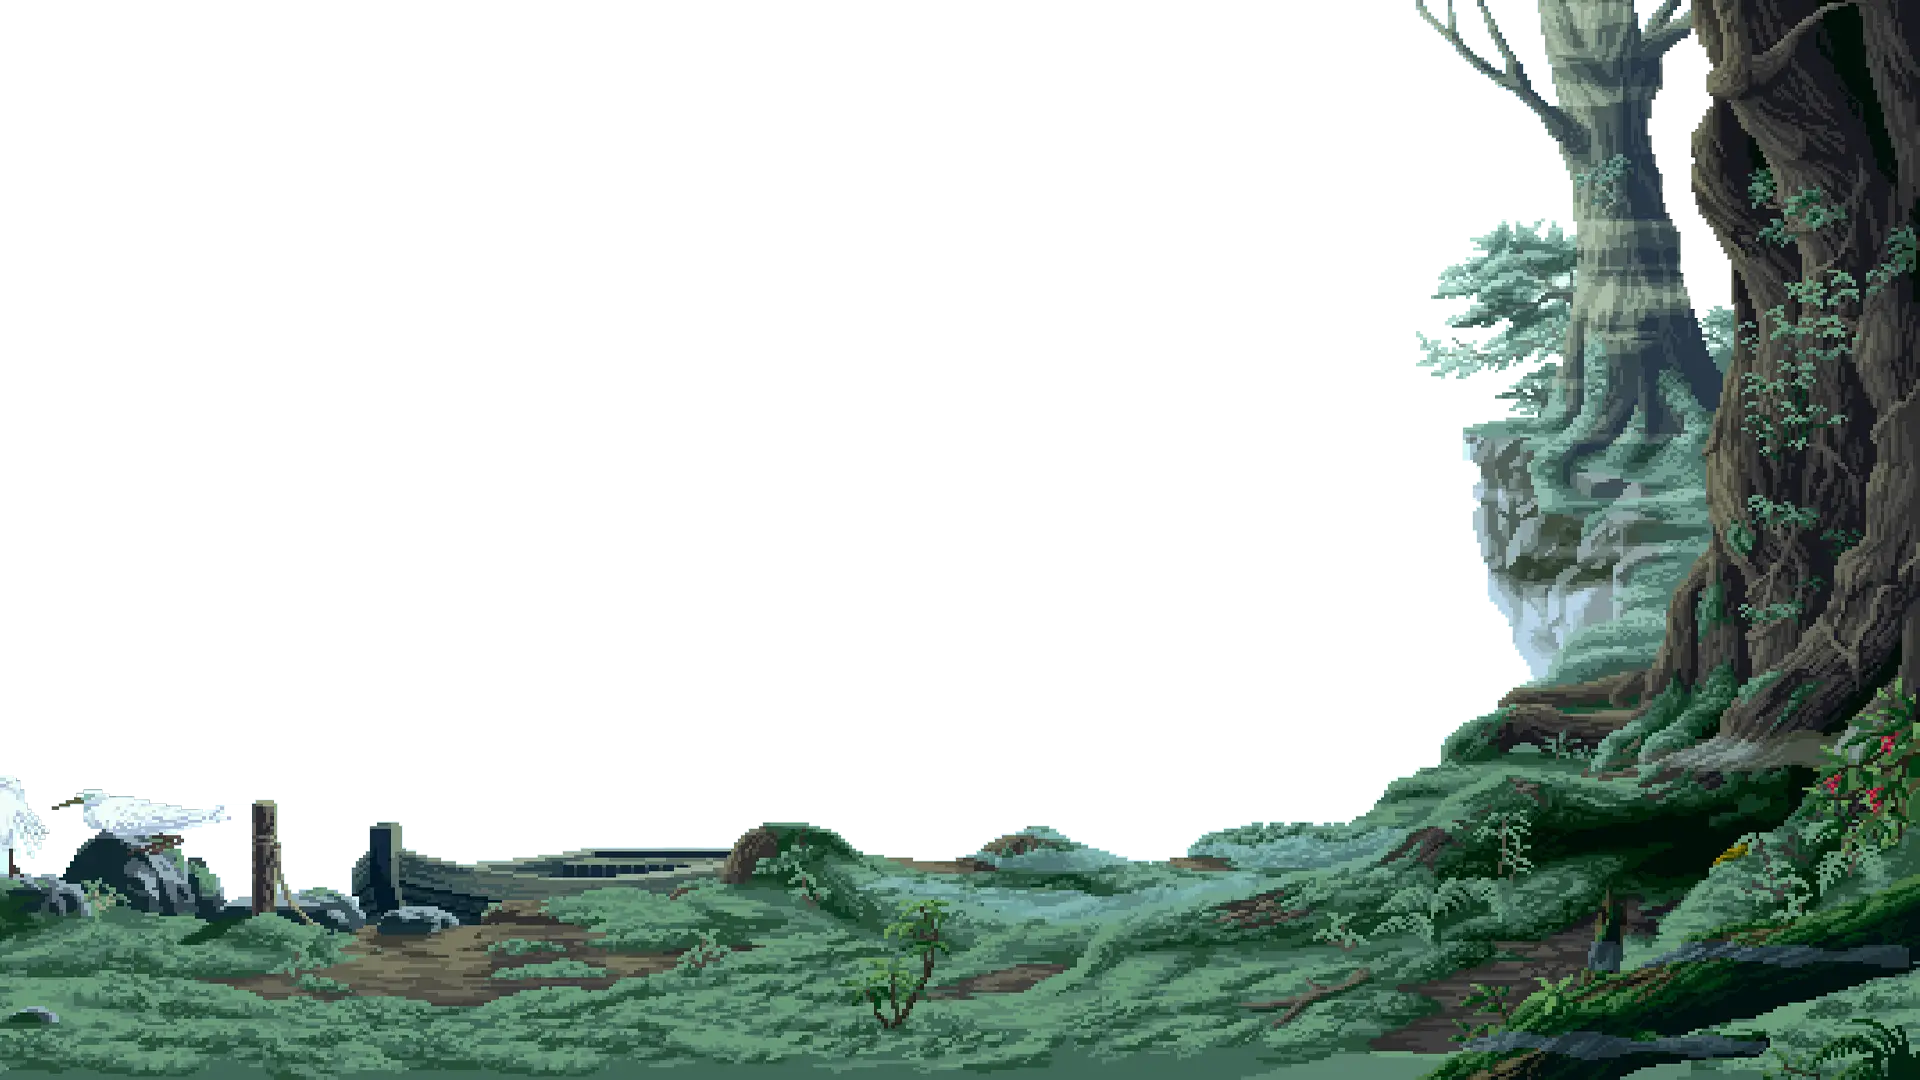
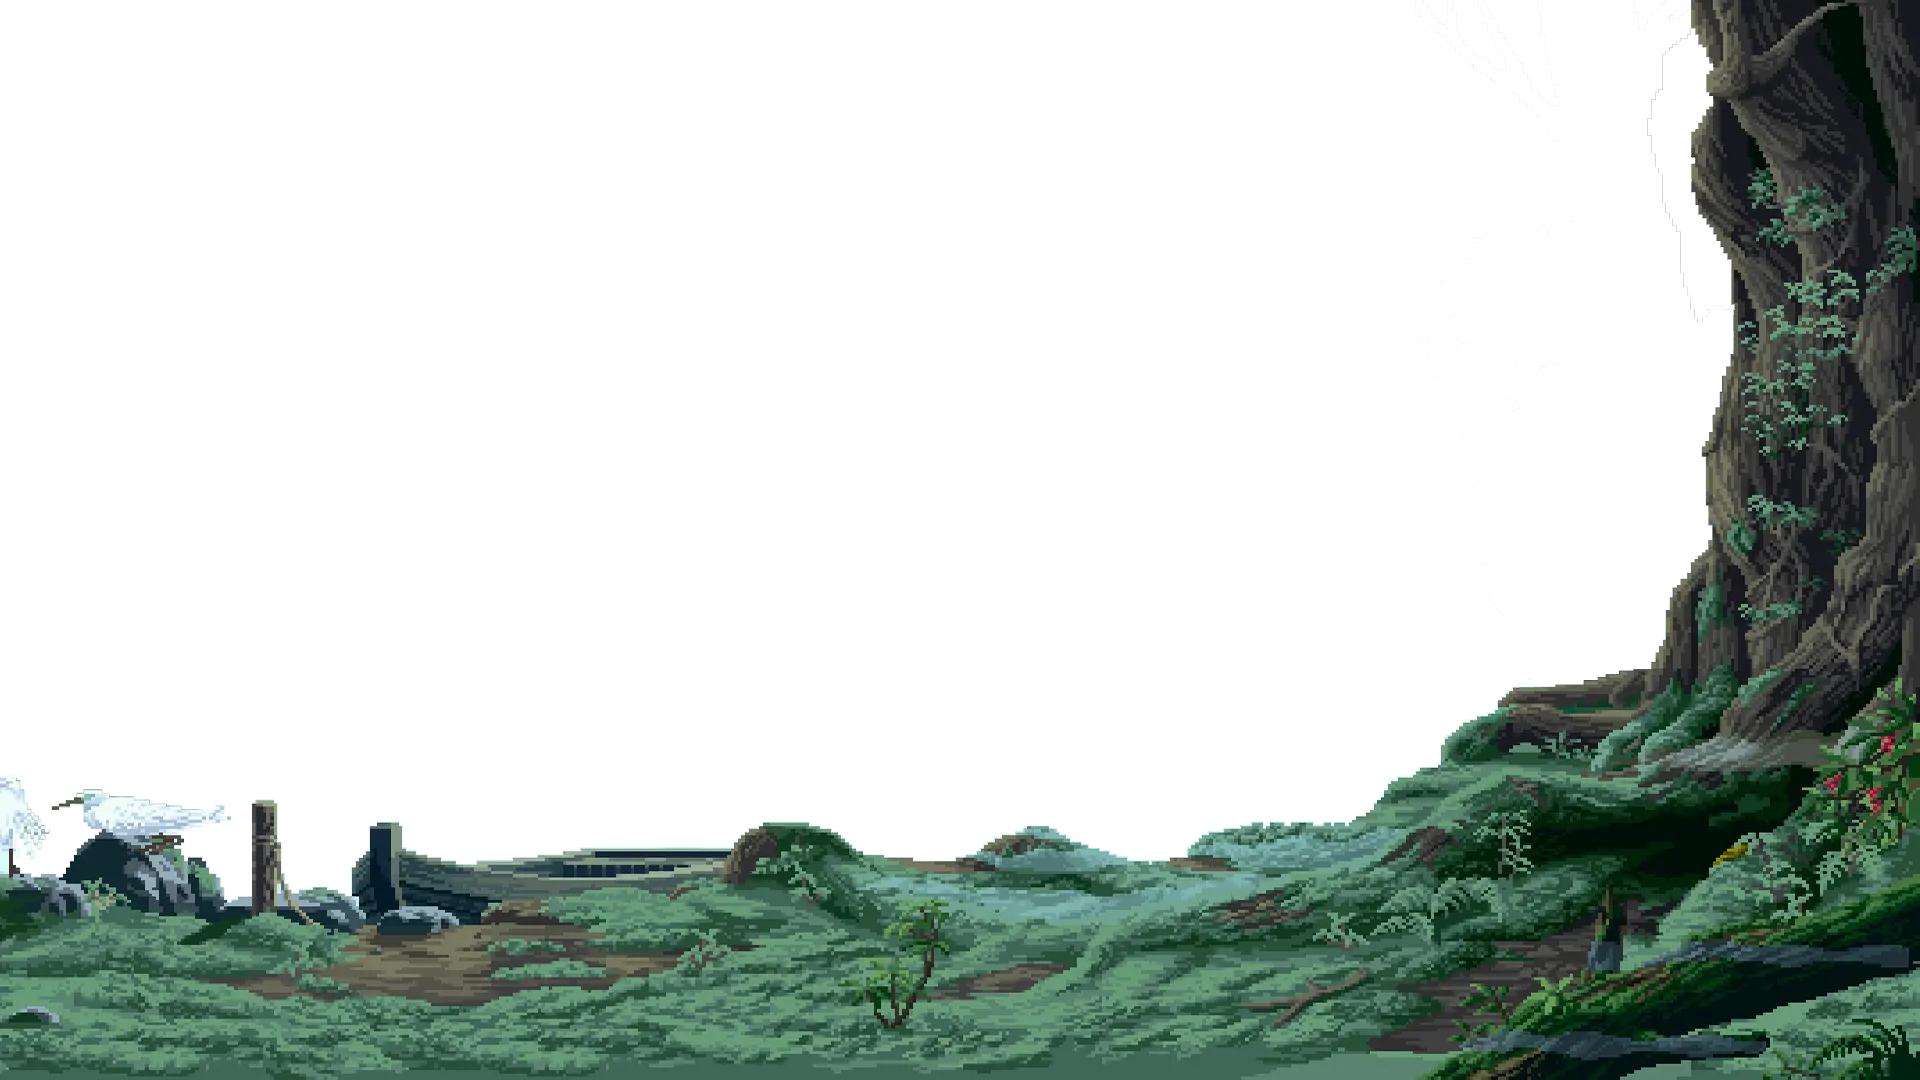
Final Version

Changed region(s): [[0.7188, 0.0, 0.9062, 0.6417]]

diff --git a/assets/js/script.js b/assets/js/script.js
@@ -1,153 +1,73 @@
-let Arrows = document.querySelectorAll(".info-case i");
 let InfoCases = document.querySelectorAll(".info-case");
 let ProjectsIcons = document.querySelectorAll(".info-case .header-info img");
-let ProjectsTitle = document.querySelectorAll(".info-case .header-info p");
-let ProjectsLink = document.querySelectorAll(".info-case .header-info a");
-let bg = document.querySelectorAll(".background img");
+let Background = document.querySelectorAll(".background img");
 
 let ScreenWidth = screen.width;
 let ProjectsWidth = '28px'
-console.log(ScreenWidth);
 
 if (ScreenWidth <= 480 && ScreenWidth > 400) {
-    console.log(bg[0])
-    bg[0].src = 'assets/img/backgroundmobile.webp';
-    bg[1].src = 'assets/img/backgroundmobile.webp';
+    Background[0].src = 'assets/img/backgroundmobile.webp';
+    Background[1].src = 'assets/img/backgroundmobile.webp';
     ProjectsWidth = '20px'
 } else if (ScreenWidth <= 400 && ScreenWidth > 370) {
-    bg[0].src = 'assets/img/backgroundmobile.webp';
-    bg[1].src = 'assets/img/backgroundmobile.webp';
+    Background[0].src = 'assets/img/backgroundmobile.webp';
+    Background[1].src = 'assets/img/backgroundmobile.webp';
     ProjectsWidth = '15px'
 } 
 else if (ScreenWidth <= 370) {
-    bg[0].src = 'assets/img/backgroundmobile.webp';
-    bg[1].src = 'assets/img/backgroundmobile.webp';
+    Background[0].src = 'assets/img/backgroundmobile.webp';
+    Background[1].src = 'assets/img/backgroundmobile.webp';
     ProjectsWidth = '13px'
 
 } else{
     window.addEventListener('scroll', () => {
-    // console.log(100  + window.scrollY / 100 + '%');
-    bg[0].style.width = 100  + window.scrollY / 70 + '%';
-    bg[0].style.height = 100  + window.scrollY / 70 + '%';
+        Background[0].style.width = 100  + window.scrollY / 70 + '%';
+        Background[0].style.height = 100  + window.scrollY / 70 + '%';
 
-    bg[1].style.width = 100  + window.scrollY / 100 + '%';
-    bg[1].style.height = 100  + window.scrollY / 100 + '%';
+        Background[1].style.width = 100  + window.scrollY / 100 + '%';
+        Background[1].style.height = 100  + window.scrollY / 100 + '%';
 
-    bg[1].style.top = 0  - window.scrollY / 50 + 'px';
-    bg[1].style.left = 0  - window.scrollY / 50 + 'px';
+        Background[1].style.top = 0  - window.scrollY / 50 + 'px';
+        Background[1].style.left = 0  - window.scrollY / 50 + 'px';
+
+        Background[2].style.width = 100  + window.scrollY / 70 + '%';
+        Background[2].style.height = 100  + window.scrollY / 70 + '%';
 
 
+        Background[2].style.left = 0  - window.scrollY / 15 + 'px';
 
-
-    });
-
-    InfoCases.forEach((InfoCase, index) => {
-        console.log(InfoCase)
-        InfoCase.addEventListener("mouseover", (event) => {
-            // highlight the mouseover target
-            //   console.log(ProjectsWidth);
-            InfoCase.style.setProperty('align-items', 'start');
-            //   ProjectsIcons[index].style.setProperty('width', ProjectsWidth);
-            ProjectsIcons[index].style.setProperty('height', ProjectsWidth);
-            ProjectsLink[index-3].style.setProperty('height', ProjectsWidth);
-            ProjectsLink[index-3].style.setProperty('width', '200px');
-            //   ProjectsTitle[index].style.setProperty('font-size', ProjectsWidth);
-        
-            },
-            false,
-        );
-    });
-
-    InfoCases.forEach((InfoCase, index) => {
-        // console.log(InfoCase)
-        InfoCase.addEventListener("mouseout", (event) => {
-            // highlight the mouseover target
-            //   console.log(index);
-            //   ProjectsIcons[index].style.removeProperty('width');
-            ProjectsIcons[index].style.removeProperty('height');
-            ProjectsLink[index-3].style.removeProperty('height');
-            ProjectsLink[index-3].style.removeProperty('width');
-            //   ProjectsTitle[index].style.removeProperty('font-size');
-            
-            },
-            false,
-        );
     });
 }
 
-// let bg = document.querySelectorAll(".background img");
-// let hero = document.getElementsByClassName('hero')
-// window.addEventListener('scroll', () => {
-//     // console.log(100  + window.scrollY / 100 + '%');
-//     bg[0].style.width = 100  + window.scrollY / 70 + '%';
-//     bg[0].style.height = 100  + window.scrollY / 70 + '%';
 
-//     bg[1].style.width = 100  + window.scrollY / 100 + '%';
-//     bg[1].style.height = 100  + window.scrollY / 100 + '%';
 
-//     bg[1].style.top = 0  - window.scrollY / 50 + 'px';
-//     bg[1].style.left = 0  - window.scrollY / 50 + 'px';
-        
-    
-// });
-
-// Clicked arrow in ifno case make window bigger
-// Arrows.forEach((Arrow, index) => {
-//     Arrow.addEventListener('click', () => {
-//         // description.style.visibility = 'visible';
-//         console.log(index)
-//         if (InfoCases[index].style.height != '100px' ){
-//             InfoCases[index].style.setProperty('height', '100px');
-//         } else { 
-//             InfoCases[index].style.setProperty('height', '50px');
-//         }
-            
-        
-//     });
-// });
-let prevIndex = 0;
-let prevIndex2 = 0;
 InfoCases.forEach((InfoCase, index) => {
-    // console.log(InfoCase)
-    InfoCase.addEventListener("click", (event) => {
-          // highlight the mouseover target
-        //   console.log(ProjectsWidth);
-            ProjectsLink[prevIndex].style.removeProperty('height');
-            ProjectsLink[prevIndex].style.removeProperty('width');
-            ProjectsIcons[prevIndex2].style.removeProperty('height');
-            // InfoCase.style.setProperty('align-items', 'start');
-        //   ProjectsIcons[index].style.setProperty('width', ProjectsWidth);
-            ProjectsIcons[index].style.setProperty('height', ProjectsWidth);
-            ProjectsLink[index-3].style.setProperty('height', ProjectsWidth);
-            ProjectsLink[index-3].style.setProperty('width', '200px');
-        //   ProjectsTitle[index].style.setProperty('font-size', ProjectsWidth);
-
-            prevIndex = index-3;
-            prevIndex2 = index;
+    console.log(InfoCase)
+    InfoCase.addEventListener("mouseover", (event) => {
+        ProjectsIcons[index].style.setProperty('height', ProjectsWidth);
         },
         false,
-      );
+    );
+});
+
+InfoCases.forEach((InfoCase, index) => {
+    InfoCase.addEventListener("mouseout", (event) => {
+        ProjectsIcons[index].style.removeProperty('height');
+        },
+        false,
+    );
 });
 
 
-// Hover info-case
 
 // InfoCases.forEach((InfoCase, index) => {
-//     // console.log(InfoCase)
-//     InfoCase.addEventListener("mouseover", (event) => {
-//           // highlight the mouseover target
-//         //   console.log(ProjectsWidth);
-//           InfoCase.style.setProperty('align-items', 'start');
-//         //   ProjectsIcons[index].style.setProperty('width', ProjectsWidth);
-//           ProjectsIcons[index].style.setProperty('height', ProjectsWidth);
-//           ProjectsLink[index-3].style.setProperty('height', ProjectsWidth);
-//           ProjectsLink[index-3].style.setProperty('width', '200px');
-//         //   ProjectsTitle[index].style.setProperty('font-size', ProjectsWidth);
-       
+//     InfoCase.addEventListener("click", (event) => {
+//             ProjectsIcons[index].style.setProperty('height', ProjectsWidth);
 //         },
 //         false,
 //       );
 // });
+
 
 
 

diff --git a/index.html b/index.html
@@ -32,6 +32,8 @@
         <div class="background">
           <img src="assets/img/background_top.webp" alt="">
           <img src="assets/img/background_bottom.webp" class='img2' alt="">
+          <img src="assets/img/background_tree.webp" class='img3' alt="">
+
 
         </div>
 
@@ -189,6 +191,7 @@
                 <div class="icon-box"><img src="assets/img/skills/css.png" alt=""><p>CSS</p></div>
                 <div class="icon-box"><img src="assets/img/skills/scss.png" alt=""><p>Sass</p></div>
                 <div class="icon-box"><img src="assets/img/skills/js.png" alt=""><p>JS</p></div>
+                <div class="icon-box"><img src="assets/img/skills/php.png" alt=""><p>PHP</p></div>
                 <div class="icon-box"><img src="assets/img/skills/json.png" alt=""><p>JSON</p></div>
                 <div class="icon-box"><img src="assets/img/skills/python.png" alt=""><p>Python</p></div>
                 <div class="icon-box"><img src="assets/img/skills/github.gif" alt=""><p>Git</p></div>
@@ -224,13 +227,13 @@
                   <img src="assets/img/projects/rav.webp" alt="Hello"  width="50px">
                   <!-- <p>ravishingculture Shop</p> -->
                 </div>
-                  <p class="description">A store for the ravishingculture brand hosted on the shopper platform. Click me to check!</p>
+                  <p class="description">A store for the ravishingculture brand hosted on the shopper platform.
+                    <a href="https://ravishingculture.pl/">Click me to check!</a></p>
               </div>
             
 
             <div class="info-case">
               <div class="header-info">
-                <a href=""></a>
 
                 <img src="assets/img/projects/rav.webp" alt="Hello"  width="50px">
 
@@ -242,34 +245,33 @@
             
             <div class="info-case">
               <div class="header-info">
-                <a href="https://808dot.github.io/dawidolek/"></a>
-
                 <img src="assets/img/projects/personal.webp" alt="Hello"  width="50px">
                 <!-- <p>Personal Portfolio Website</p> -->
               </div>
-                <p class="description">Dawid Olek's portfolio as a website. Click me to check!</p>
+                <p class="description">Dawid Olek's portfolio as a website. 
+                  <a href="https://808dot.github.io/dawidolek/">Click me to check!</a></p>
             </div>
             
 
             
             <div class="info-case">
               <div class="header-info">
-                <a href="https://808dot.github.io/glass-world/"></a>
+                
                 <img src="assets/img/projects/glassworld.webp" alt="Hello"  width="50px">
                 <!-- <p>Glass World</p> -->
               </div>
-              
-                <p class="description">Electronic business card of a company dealing with glass in the construction field. Click me to check!</p>
+                <p class="description">Electronic business card of a company dealing with glass in the construction field. 
+                  <a href="https://808dot.github.io/glass-world/">Click me to check!</a></p>
             </div>
             
 
             <div class="info-case">
               <div class="header-info">
-                <a href="https://808dot.github.io/bydotforyou/index.html"></a>
                 <img src="assets/img/projects/you.webp" alt="Hello"  width="50px">
                 <!-- <p>bydotforYOU Website</p> -->
               </div>
-                <p class="description">Portfolio of the movement signed by dot for YOU. Click me to check!</p>
+                <p class="description">Portfolio of the movement signed by dot for YOU. 
+                <a href="https://808dot.github.io/bydotforyou/index.html">Click me to check!</a></p>
             </div>
             
           </div>

diff --git a/assets/scss/style.scss b/assets/scss/style.scss
@@ -54,15 +54,7 @@ html {
 }
 
 .background {
-    // width: 100vw;
-    // height: 100vh;
-    // aspect-ratio: 16 / 9;
-    // background: url(../img/background.png)  ;  
-    // background-size:cover;                      
-    // background-repeat: no-repeat;
-    // background-position: center center;  
-    // position: fixed;
-    // z-index: -1;
+   
     img{
         width: 100%;
         height: 100%;
@@ -83,10 +75,22 @@ html {
         background-repeat: no-repeat;
         background-position: center center;  
         position: fixed;
-        top:0;
-        left:0;
+        
         bottom: 0;
         right: 0;
+        z-index: 0;
+    }
+
+    .img3{
+        width: 100%;
+        height: 100%;
+        aspect-ratio: 16 / 9;
+        background-size:cover;                      
+        background-repeat: no-repeat;
+        background-position: center center;  
+        position: fixed;
+        
+        // background-color: red;
         z-index: -1;
     }
 }
@@ -192,13 +196,7 @@ html {
         padding-top: 10px;
         padding-bottom: 10px ;
         transition: 0.9s ;
-        a{
-            position: fixed;
-            background-color: red;
-            height: var(--font-info-case);
-            width: var(--font-info-case);
-            z-index: 20;
-        }
+     
         .header-info{
             display: flex;
             transition: .5s;
@@ -361,7 +359,6 @@ html {
         --img-header: 35px;
         --font-info-case: 35px;
     }
-    
 }
 
 @media (max-width: 1024px) {
@@ -389,14 +386,12 @@ html {
     .hero{
         width:60%;
     }
-    
 }
 
 @media (max-width: 600px) {
     .hero{
         width:70%;
     }
- 
 }
 
 @media (max-width: 480px) {
@@ -412,7 +407,6 @@ html {
         --font-contact:20px;
         --font-link:15px;
     }
-    
 }
 
 @media (max-width: 400px) {
@@ -428,7 +422,6 @@ html {
         --font-contact:15px;
         --font-link:12px;
     }
-
     .hero{
         .info-case{
             max-height: 40px;
@@ -449,7 +442,6 @@ html {
         --font-contact:15px;
         --font-link:10px;
     }
-
     .hero{
         .info-case{
             max-height: 40px;

diff --git a/assets/css/style.css b/assets/css/style.css
@@ -51,10 +51,18 @@ html {
   background-repeat: no-repeat;
   background-position: center center;
   position: fixed;
-  top: 0;
-  left: 0;
   bottom: 0;
   right: 0;
+  z-index: 0;
+}
+.background .img3 {
+  width: 100%;
+  height: 100%;
+  aspect-ratio: 16/9;
+  background-size: cover;
+  background-repeat: no-repeat;
+  background-position: center center;
+  position: fixed;
   z-index: -1;
 }
 
@@ -152,13 +160,6 @@ html {
   padding-top: 10px;
   padding-bottom: 10px;
   transition: 0.9s;
-}
-.hero .info-case a {
-  position: fixed;
-  background-color: red;
-  height: var(--font-info-case);
-  width: var(--font-info-case);
-  z-index: 20;
 }
 .hero .info-case .header-info {
   display: flex;
